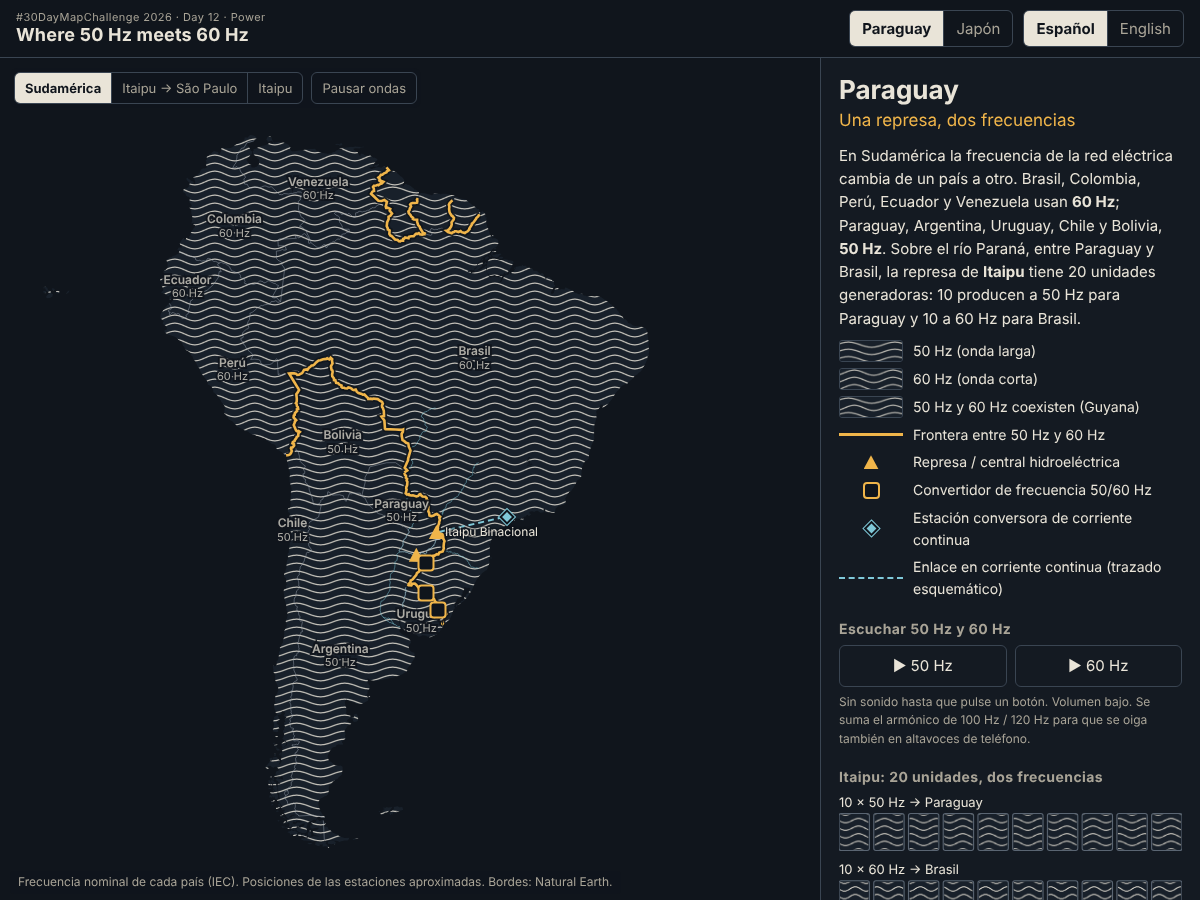
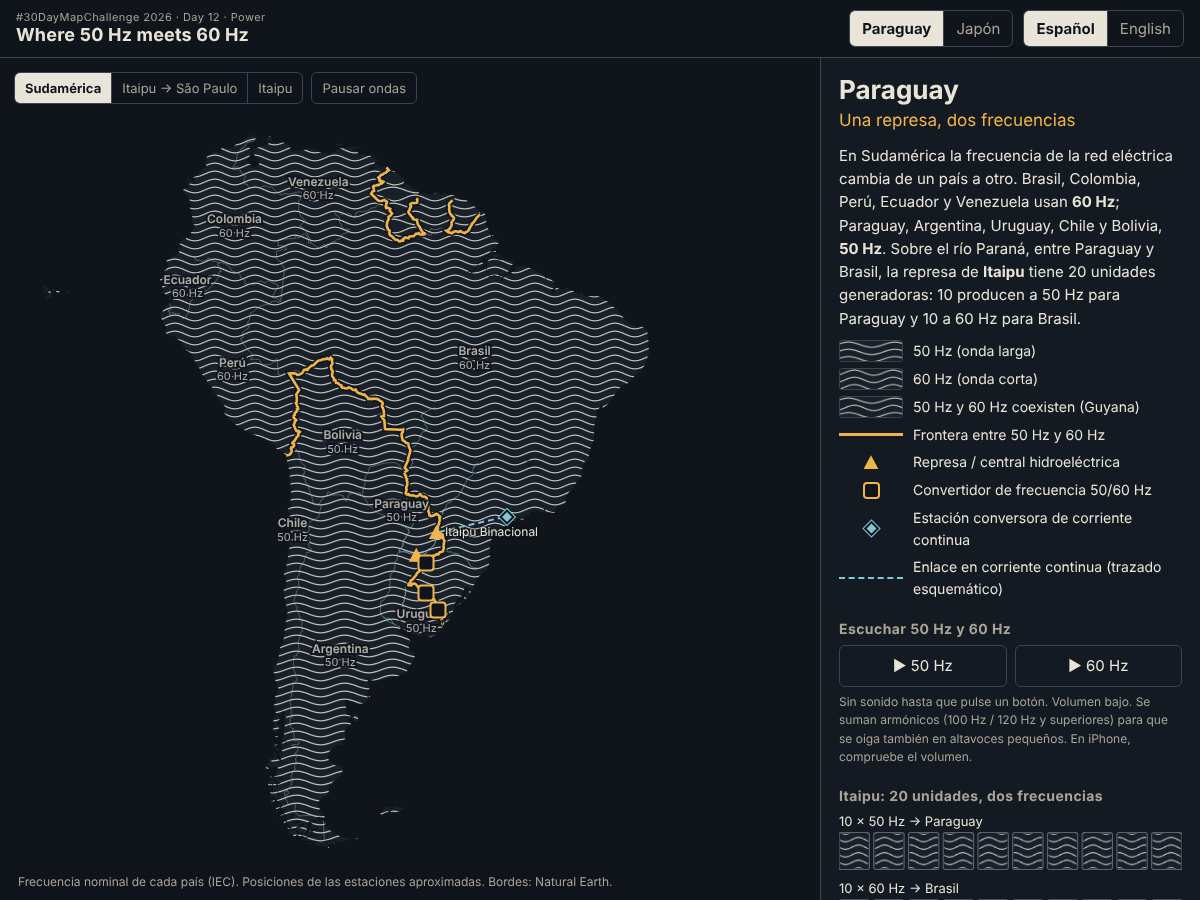
Make the 50 Hz / 60 Hz tones audible on small speakers

Changed region(s): [[0.6783, 0.7778, 0.9867, 1.0]]

diff --git a/assets/app.js b/assets/app.js
@@ -607,26 +607,31 @@
     if (!audio) {
       const AC = window.AudioContext || window.webkitAudioContext;
       if (!AC) return;
+      // iOS: let Web Audio play even when the ring/silent switch is on silent
+      try { if (navigator.audioSession) navigator.audioSession.type = "playback"; } catch (e) { /* not supported */ }
       audio = { ctx: new AC() };
     }
-    if (audio.ctx.state === "suspended") audio.ctx.resume();
-    stopTone();
     const c = audio.ctx;
+    if (c.state !== "running") c.resume();
+    stopTone();
+    const now = c.currentTime;
     const gain = c.createGain();
-    gain.gain.value = 0;
+    gain.gain.setValueAtTime(0, now);
     gain.connect(c.destination);
-    const parts = [[hz, 0.55], [hz * 2, 0.45]];
-    const oscs = parts.map(([f, a]) => {
+    // Fundamental + 2nd harmonic (100 / 120 Hz), plus weaker 3rd-5th harmonics
+    // so that small speakers, which cannot reproduce 50-60 Hz, still sound the tone.
+    const parts = [[1, 0.5], [2, 0.45], [3, 0.22], [4, 0.14], [5, 0.08]];
+    const oscs = parts.map(([n, a]) => {
       const o = c.createOscillator();
       o.type = "sine";
-      o.frequency.value = f;
+      o.frequency.setValueAtTime(hz * n, now);
       const g = c.createGain();
-      g.gain.value = a;
+      g.gain.setValueAtTime(a, now);
       o.connect(g).connect(gain);
-      o.start();
+      o.start(now);
       return o;
     });
-    gain.gain.linearRampToValueAtTime(0.12, c.currentTime + 0.25);
+    gain.gain.linearRampToValueAtTime(0.22, now + 0.25);
     audio.voice = { gain, oscs };
   }
   document.querySelectorAll(".tone").forEach((b) => b.addEventListener("click", () => {

diff --git a/assets/i18n.js b/assets/i18n.js
@@ -5,9 +5,9 @@ window.I18N = (() => {
     zoom: { es: "Zoom", en: "Zoom", ja: "ズーム" },
     soundTitle: { es: "Escuchar 50 Hz y 60 Hz", en: "Listen: 50 Hz vs 60 Hz", ja: "50Hz と 60Hz を聞き比べる" },
     soundHint: {
-      es: "Sin sonido hasta que pulse un botón. Volumen bajo. Se suma el armónico de 100 Hz / 120 Hz para que se oiga también en altavoces de teléfono.",
-      en: "Silent until you press a button. Low volume. The 100 Hz / 120 Hz overtone is added so phone speakers can play it too.",
-      ja: "ボタンを押すまで音は出ません。音量は控えめです。スマートフォンのスピーカーでも聞こえるよう、100Hz / 120Hz の倍音を重ねています。"
+      es: "Sin sonido hasta que pulse un botón. Volumen bajo. Se suman armónicos (100 Hz / 120 Hz y superiores) para que se oiga también en altavoces pequeños. En iPhone, compruebe el volumen.",
+      en: "Silent until you press a button. Low volume. Overtones (100 Hz / 120 Hz and above) are added so small speakers can play it too. On iPhone, check the volume.",
+      ja: "ボタンを押すまで音は出ません。音量は控えめです。スマートフォンなど小さなスピーカーでも聞こえるよう、倍音（100Hz / 120Hz とその上）を重ねています。iPhone では音量を確認してください。"
     },
     stop: { es: "detener", en: "stop", ja: "停止" },
     pause: { es: "Pausar ondas", en: "Pause waves", ja: "波を止める" },
